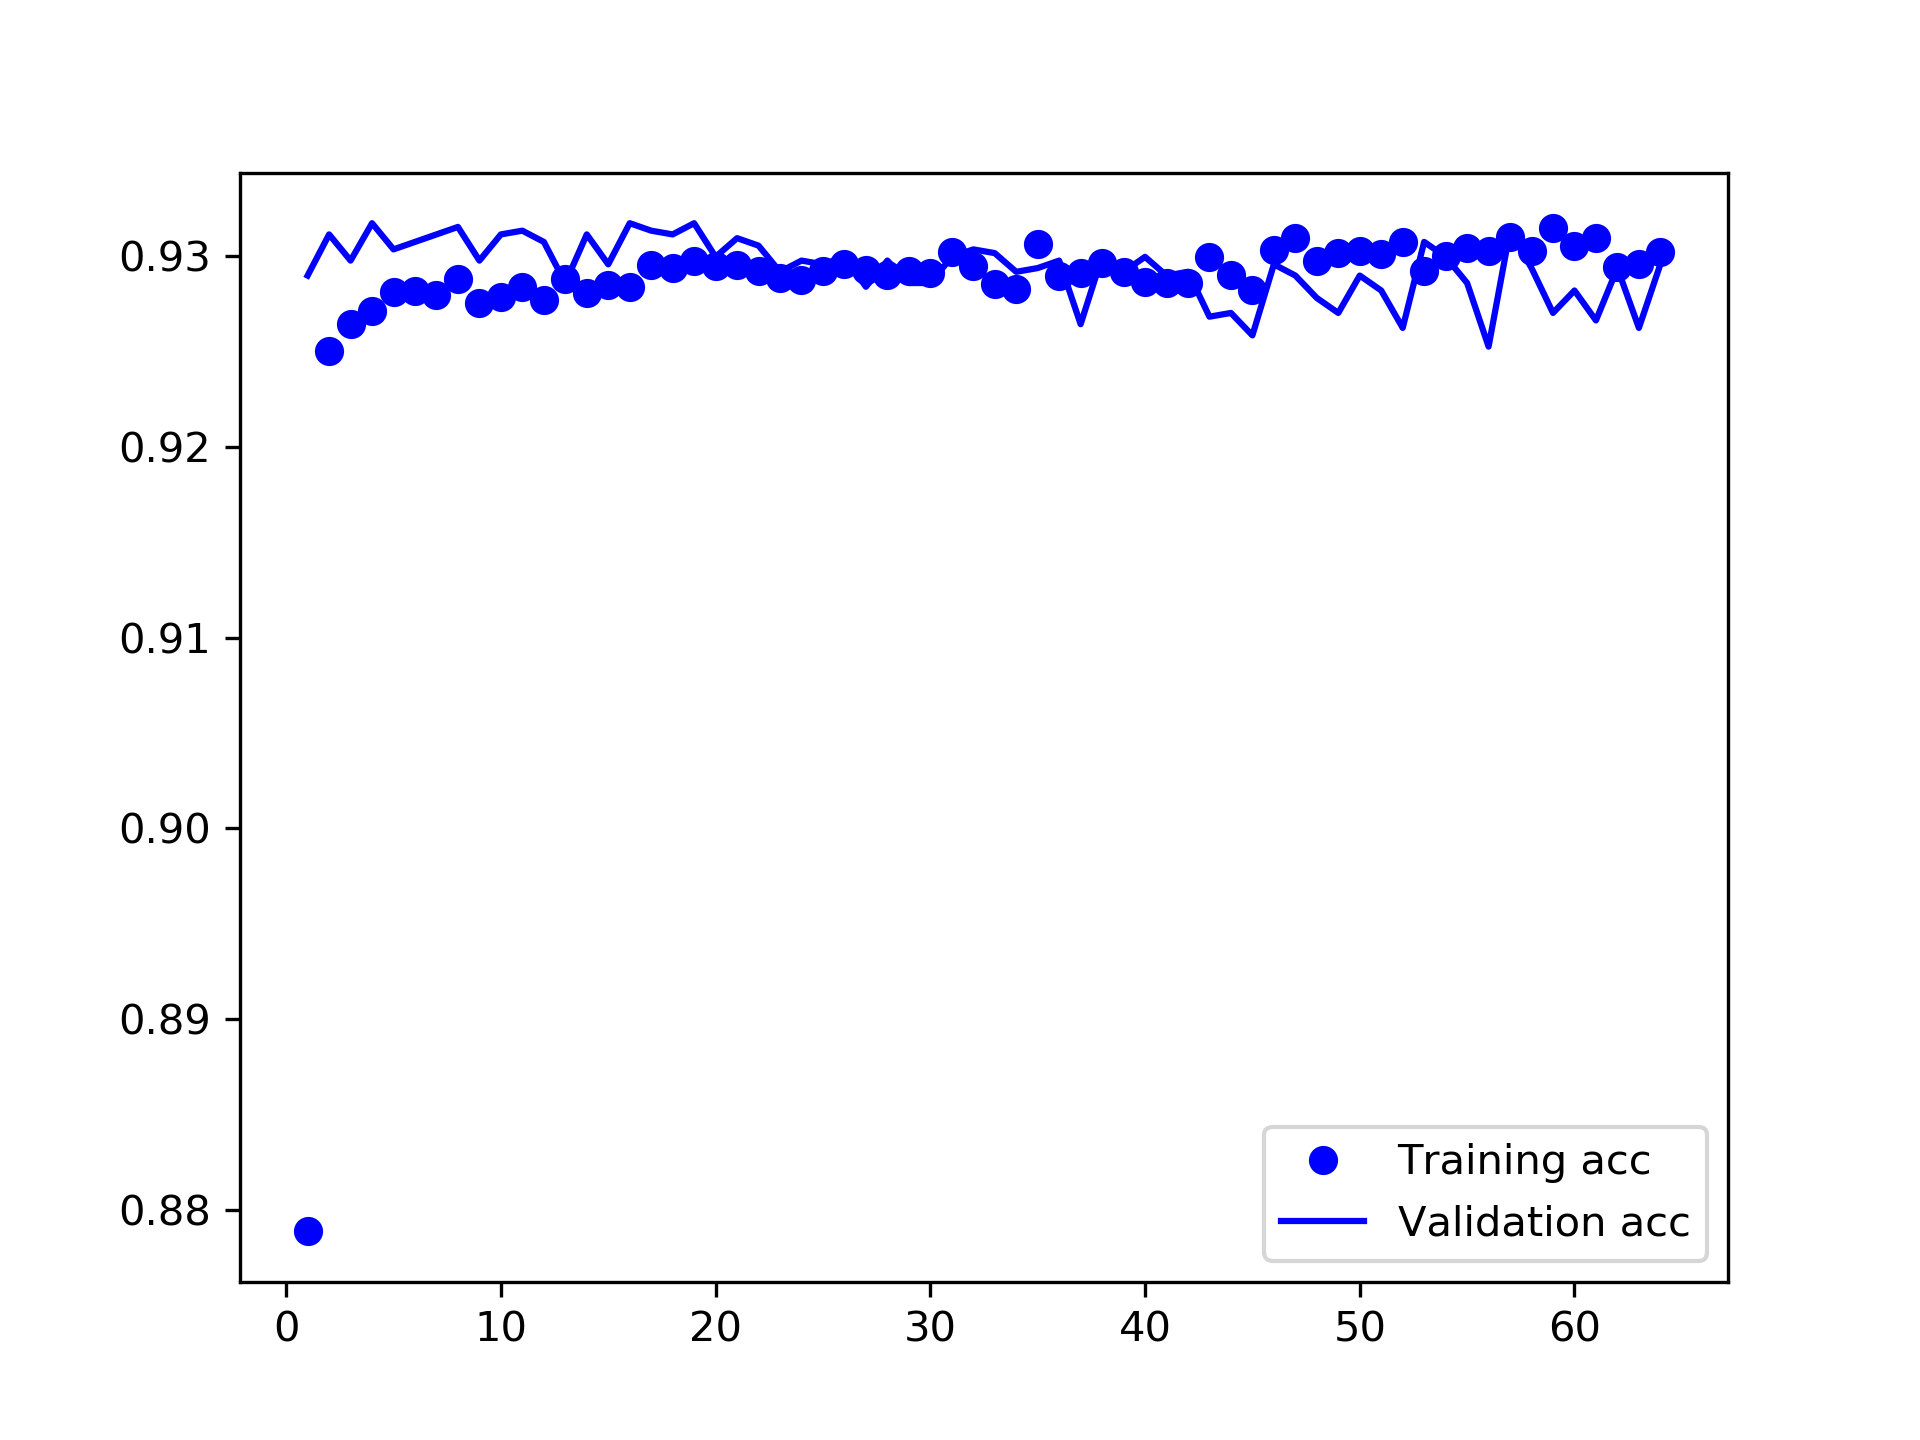
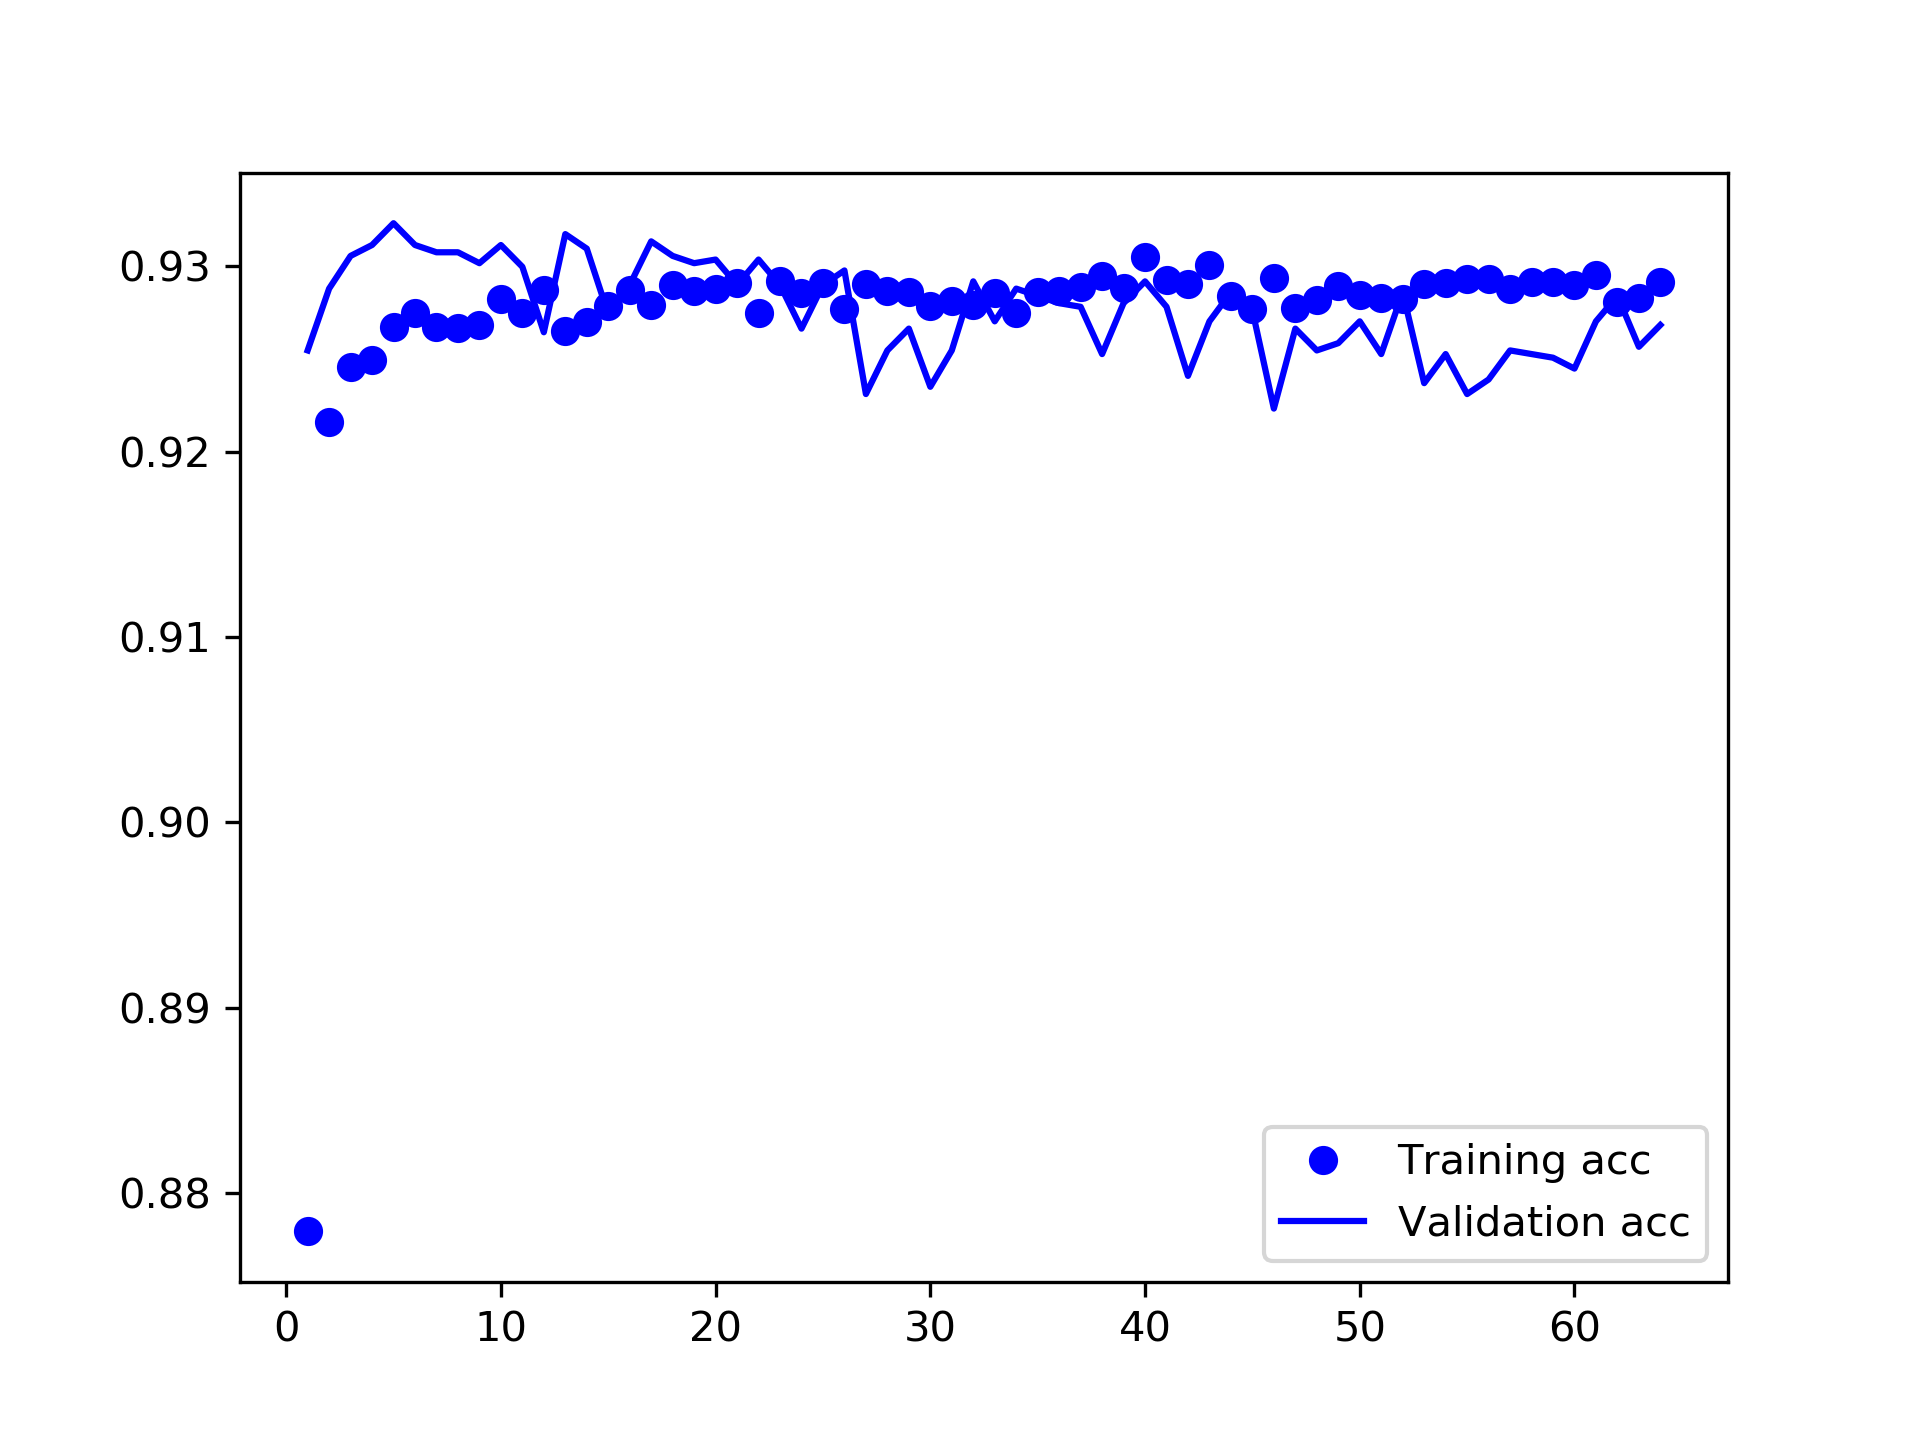
.

diff --git a/test_rnn_file_simpleInputs_automateSubstitution.py b/test_rnn_file_simpleInputs_automateSubstitution.py
@@ -86,7 +86,7 @@ X_val[:, 27] = bmiScaler.transform(X_val[:, 27])
 ## ANN setup
 
 # simple version
-nodes = 256
+nodes = 512
 
 # initialise
 classifier = Sequential()
@@ -95,9 +95,16 @@ classifier.add(Dense(activation="relu", units=nodes, input_dim=28))
 classifier.add(Dropout(0.5))
 
 # add hidden layer
-#classifier.add(Dense(activation="relu", units=nodes))
-#classifier.add(Dropout(0.5))
 classifier.add(Dense(activation="relu", units=nodes))
+classifier.add(Dropout(0.5))
+classifier.add(Dense(activation="relu", units=nodes))
+classifier.add(Dropout(0.5))
+classifier.add(Dense(activation="relu", units=nodes))
+classifier.add(Dropout(0.5))
+classifier.add(Dense(activation="relu", units=nodes))
+classifier.add(Dropout(0.5))
+classifier.add(Dense(activation="relu", units=nodes))
+classifier.add(Dropout(0.5))
 
 # add output layer
 classifier.add(Dense(activation="sigmoid", units=1))
@@ -106,7 +113,9 @@ classifier.add(Dense(activation="sigmoid", units=1))
 classifier.compile(optimizer = 'adam', loss = 'binary_crossentropy', metrics = ['accuracy'])
 
 # fit the ann to the training set
-history = classifier.fit(X_train, y_train, batch_size = 128, epochs = 16, validation_data = (X_val, y_val))
+history = classifier.fit(X_train, y_train, batch_size = 128, epochs = 64, validation_data = (X_val, y_val))
+
+
 
 # plot losses
 import matplotlib.pyplot as plt
@@ -139,7 +148,7 @@ roc_auc_score(y_test, y_pred)
 
 
 
-dense_node_n = 28
+dense_node_n = 1024
 # a = input the drug dataset (2-dimensional: IDs, timesteps)
 diag_set = Input(shape = (len(X_train[0]), ), dtype='float32', name = 'diag_set')
 # embed drug layer
